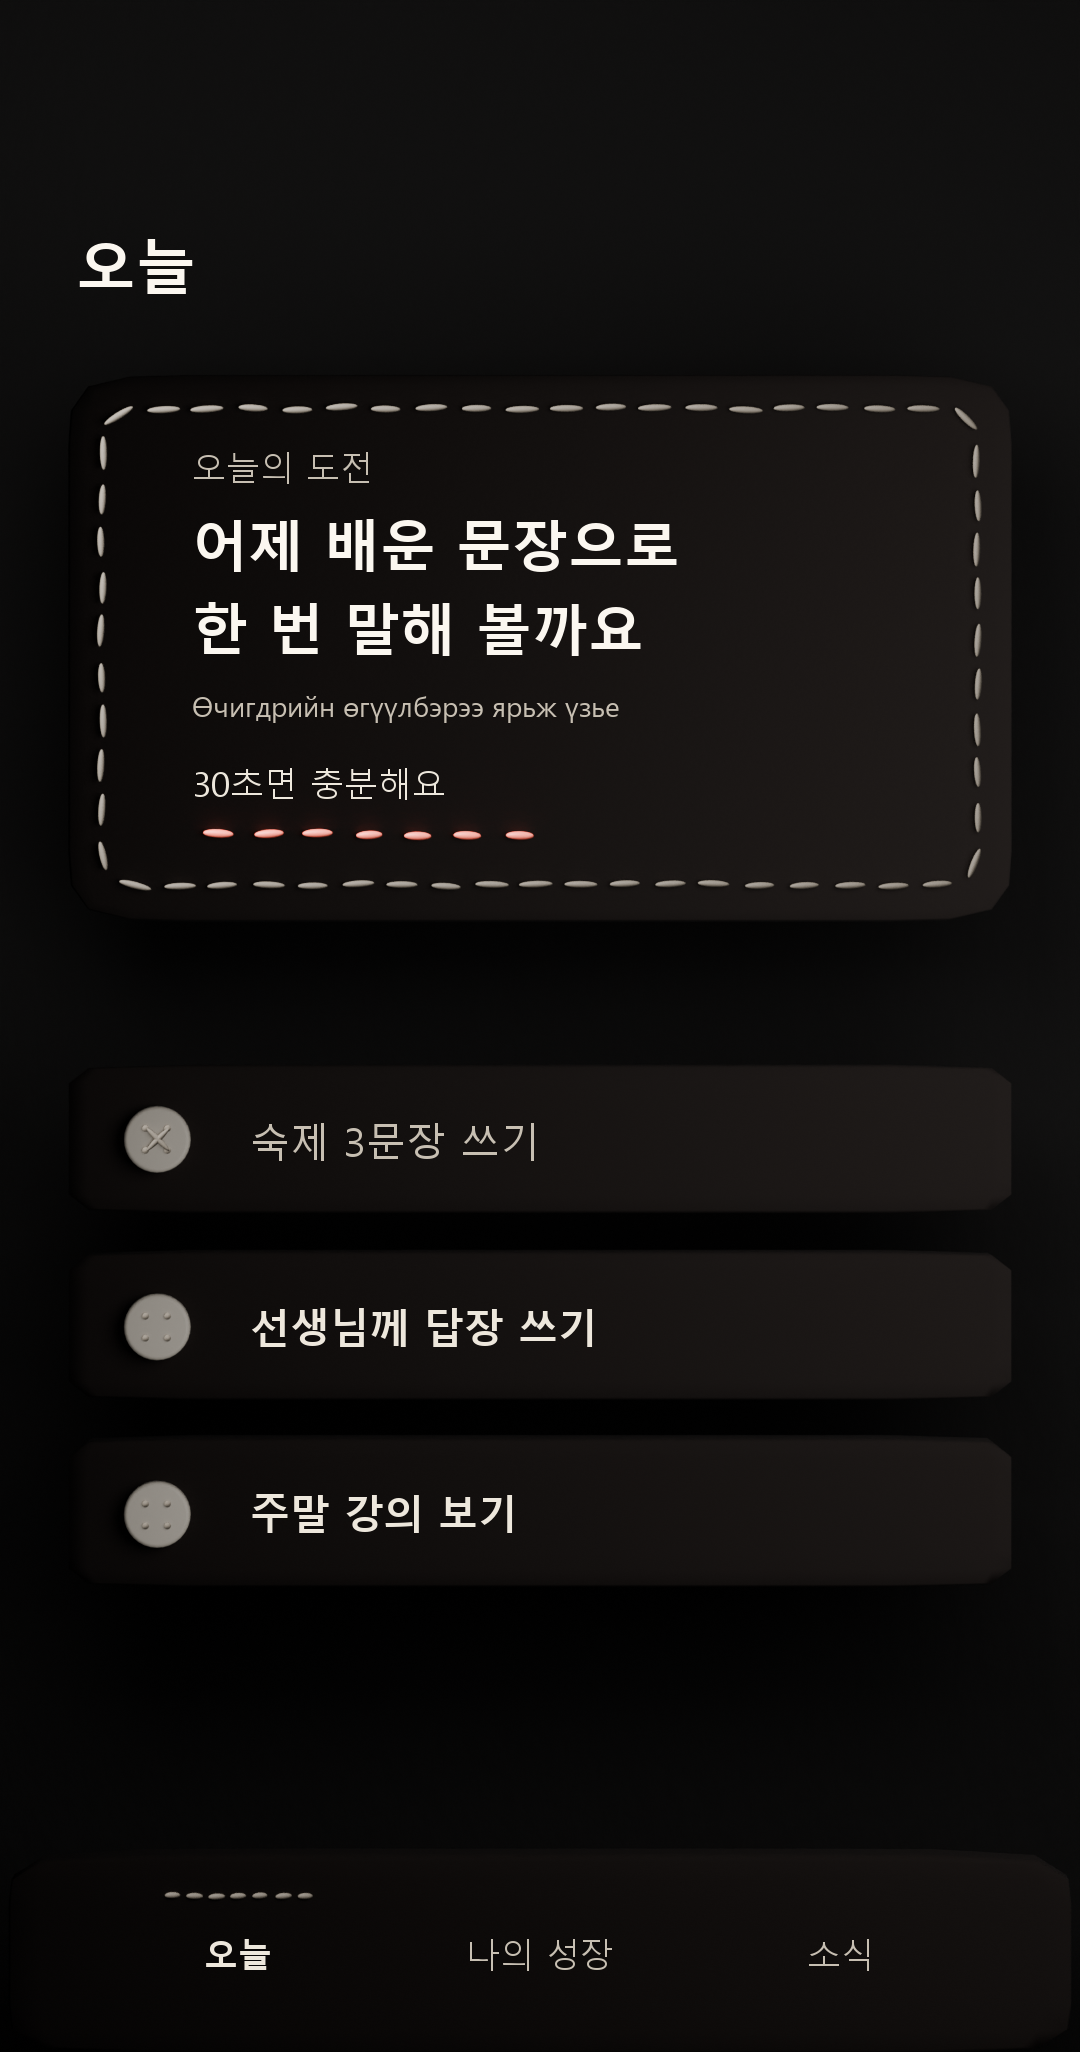
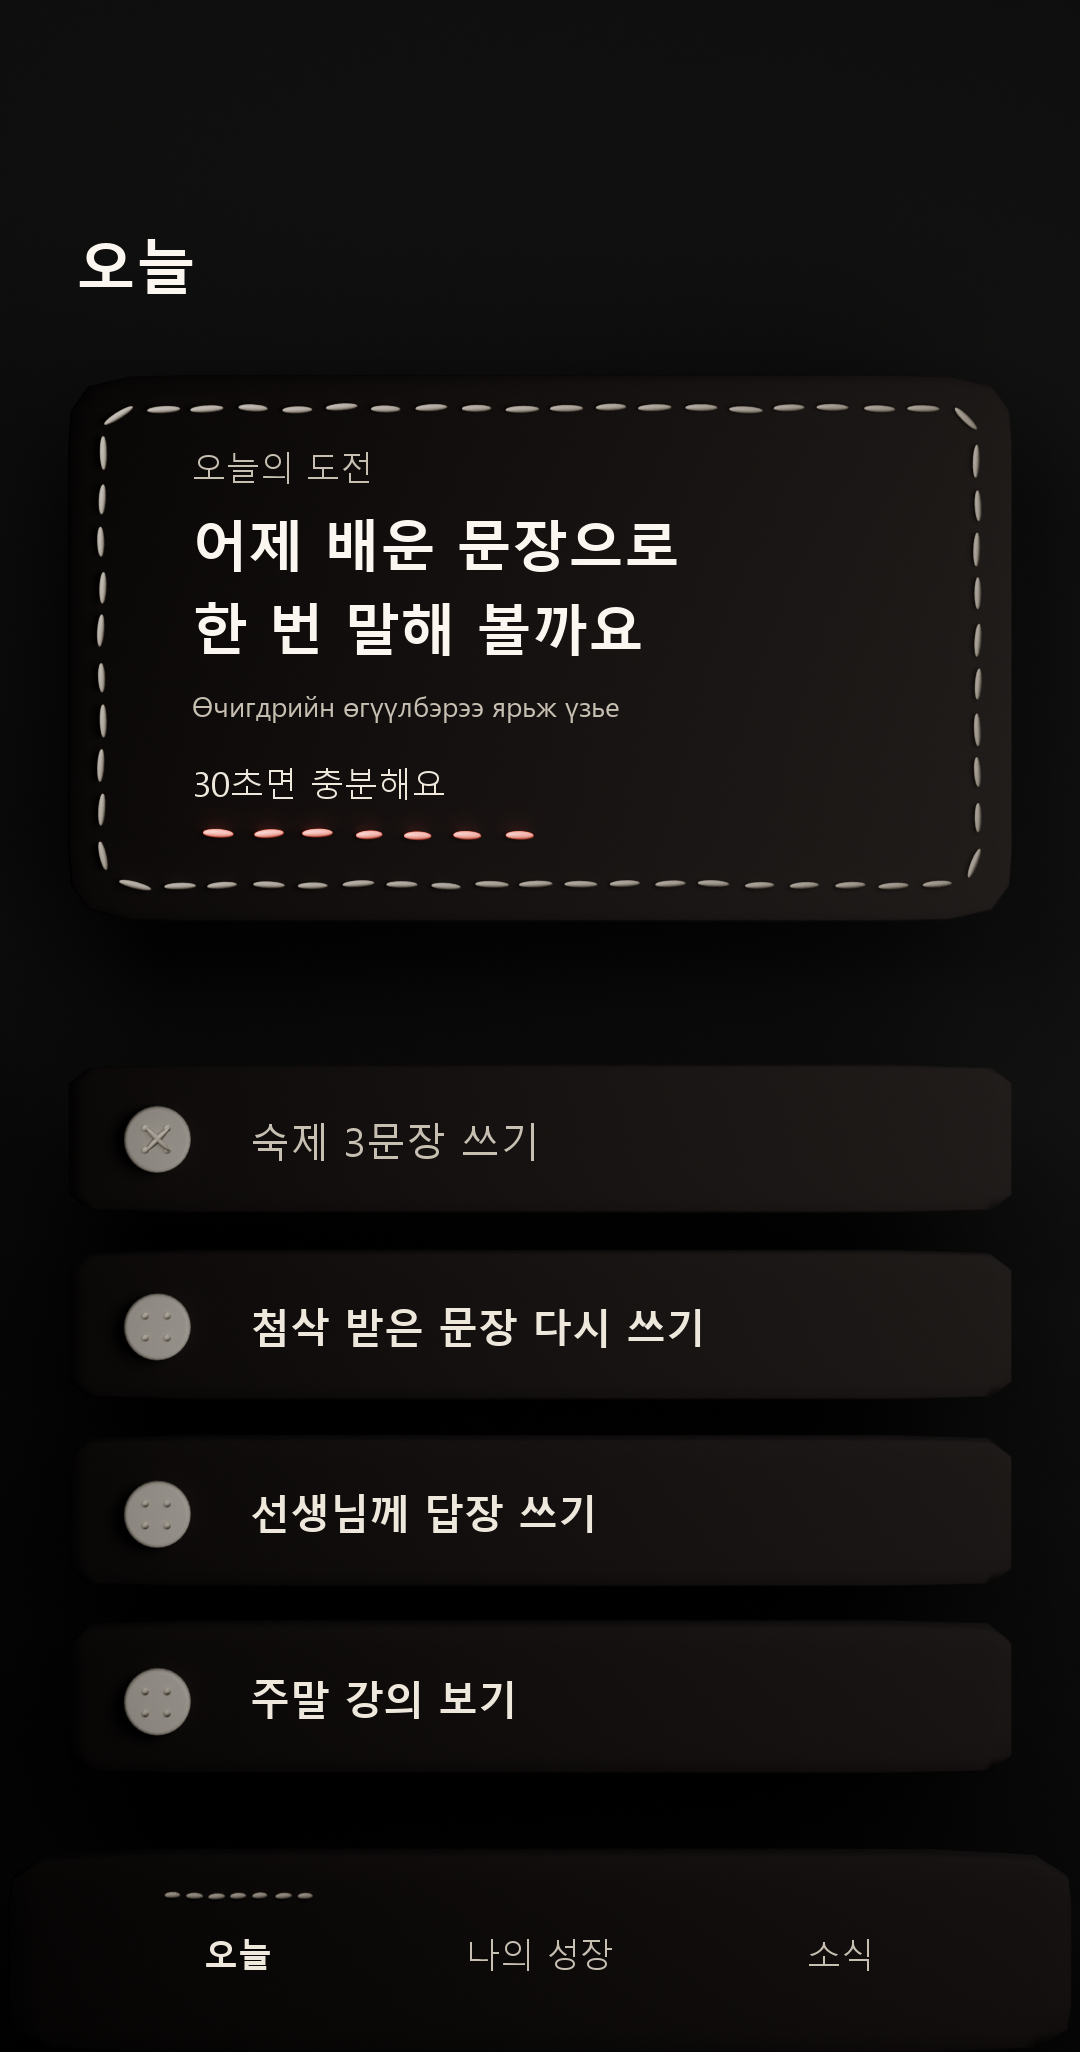
feat: 오늘 탭 넷째 줄 = 다시쓰기(학3) — 두 탭이 서로를 부른다 (유호 08-23)
유호 지시: 「오늘 탭에 네 번째 줄 넣어줘.」

1판은 줄이 셋이라 할일2 아래 **259px** 이 비었고, 「4계 ③ 어둠을 두려워하지 않는다」로 두고
판정을 기다렸다. 소식 탭(줄 넷)이 나오자 나란히 놓였고 그 여백이 «어둠»이 아니라
**«빈 칸»**으로 읽혔다 — 유호님 지시로 닫는다.

## 무엇을 넣을지는 근거로 골랐다 — 넷째 = 다시쓰기(학3)
1. 수집층 1-A 열 중 **아직 어느 화면에도 자리를 못 얻은 것 중 가장 값지다**
   (학2 첨삭 = 소식 탭 · 학4·7·8 = 도전 카드 · 학5 = 코치 카드 · 학10-A = 「우선순위 최하」).
2. 🔑 **두 탭이 이어진다** — 소식 탭에 첨삭이 «도착»하면 오늘 탭에 다시쓰기가 «할 일»로 뜬다.
   탭이 서로를 부르면 셋이 한 앱으로 읽힌다. **탭 셋을 다 짓고 나서야 보이는 자리였다** —
   화면을 하나씩 볼 때는 안 보이고 나란히 놓아야 보이는 것이 있다.
3. 3점 종단(원문 → 교정 → 자기 교정문)의 **마지막 점**이다. 이 줄이 없으면 「교정이 먹혔는지」를
   재는 데이터가 안 들어온다(전수분석 학3 「교정이 먹혔는지 재는 반쪽」).

## 값은 새로 안 잡았다
세로 예산은 소식 탭이 이미 실측해 뒀다 — 넷째 z −1.38 · 아래끝 −1.57 · 탭바 윗면 −1.80
→ 남는 숨 0.23(줄 사이 빈틈 0.10 의 2.3배). **두 탭이 같은 격자를 쓴다.**

대비 재측정 **13블록 전부 AAA**(10.12 ~ 17.92 : 1) · 상단 착시 재확인(최대 17/255 · 밝은 화소 0).
`탭셋_나란히.png` 갱신 · 오늘공방 인계 §1-B 신설 · 트랙 §2-A 현행화.

Session-Id: local_7f333ae2-2b96-4c2d-8162-34cea81fcb8e

diff --git a/tools/요소굽기.py b/tools/요소굽기.py
@@ -3374,7 +3374,8 @@ def 오늘판():
     성장판이 «어디까지 왔나»를 그린다면 이 화면은 «오늘 무엇을 하나»를 그린다.
       ① 오늘의 도전 — 하루의 «한 가지». 학7(목소리 제출)이 기본이고 학8(출석)·학4(퀴즈)가 확정대로
          여기로 흡수됐다. 화면의 **유일한 코랄**은 이 카드 아래 「시작 실」 한 도막이다.
-      ② 할 일 셋 — 숙제(학1) · 대화(학6) · 강의(학9). 완료는 **꿰맨 단추의 켬/끔**으로 읽는다.
+      ② 할 일 넷 — 숙제(학1) · 다시쓰기(학3) · 대화(학6) · 강의(학9).
+         완료는 **꿰맨 단추의 켬/끔**으로 읽는다.
       ③ 탭바 — 지금 탭이 «오늘»(왼쪽)이라 실땀 밑줄이 첫 칸에 선다.
 
     🔑 **새 부품이 0개다.** 그릇(카드)·꿰맴(단추토글)·밑줄(실땀)은 앞 두 화면이 이미 세운 문법이라
@@ -3456,11 +3457,23 @@ def 오늘판():
               도전z - 0.48 + 손.uniform(-0.004, 0.004),
               0.036 * 손.uniform(0.92, 1.08), 0.0105, 지금실, 회전y=손.uniform(-4, 4))
 
-    # ── ② 할 일 셋 — 숙제·대화·강의. 첫 줄만 꿰매져 있다(했다) ──────────────────────────
+    # ── ② 할 일 넷 — 숙제·다시쓰기·대화·강의. 첫 줄만 꿰매져 있다(했다) ────────────────
     #   ⚠단추 깊이는 «칸 앞면 − 0.015» 다 — 성장판이 천 앞면 0.99 에 0.975 를 놓은 그 비례다.
     #     칸 앞면 = 0.5 − 0.08 = 0.42 이므로 0.405. 깊이가 어긋나면 같은 x 가 화면에서 밀린다.
+    #
+    #   🔴**유호 지시 08-23 「오늘 탭에 네 번째 줄 넣어줘」.** 1판은 셋이라 할일2 아래 259px 이
+    #     비었고, 소식 탭(줄 넷)을 나란히 놓자 그 여백이 «어둠»이 아니라 «빈 칸»으로 읽혔다.
+    #     ⇒ 넷째 = **다시쓰기(학3)**. 고른 까닭 셋:
+    #       ①수집층 1-A 에서 아직 어느 화면에도 자리를 못 얻은 것 중 가장 값지다
+    #         (학2 첨삭은 소식 탭 · 학4·7·8 은 도전 카드 · 학5 는 코치 카드 · 학10-A 는 우선순위 최하).
+    #       ②**두 탭이 이어진다** — 소식 탭에 첨삭이 «도착»하면 오늘 탭에 다시쓰기가 «할 일»로 뜬다.
+    #         탭이 서로를 부르면 셋이 한 앱으로 읽힌다.
+    #       ③3점 종단(원문 → 교정 → 자기 교정문)의 마지막 점이라, 이 줄이 없으면 「교정이 먹혔는지」를
+    #         재는 데이터가 안 들어온다(전수분석 학3 「교정이 먹혔는지 재는 반쪽」).
+    #   ⚠세로 예산은 소식 탭이 이미 실측해 뒀다: 넷째 z −1.38 · 아래끝 −1.57 · 탭바 윗면 −1.80
+    #     → 남는 숨 0.23(줄 사이 빈틈 0.10 의 2.3배). 두 탭이 같은 격자를 쓴다.
     할일깊이 = 0.405
-    for 번, hz in enumerate((0.06, -0.42, -0.90)):
+    for 번, hz in enumerate((0.06, -0.42, -0.90, -1.38)):
         줄 = 베개몸((1.21, 0.08, 0.19), 위치=(0, 0.5, hz), 크리스=0.66, 레벨=3)
         줄.data.materials.append(직물결(매끈재질('할일칸', 색['Ink'], 거칠기=0.95), 규모=160.0, 세기=0.045))
         키제외.append(줄)

diff --git a/docs/캐릭터/오늘공방_0822/오늘덧씌움.py b/docs/캐릭터/오늘공방_0822/오늘덧씌움.py
@@ -80,7 +80,10 @@ if 키릴줄:
 # ── ② 할 일 셋 — 단추가 «했나»를 말하므로 글은 이름만 든다 ─────────────────────────
 #   ⚠상태를 글로 또 쓰지 않는다(「했어요」 금지) — 꿰맨 단추가 이미 그 말을 하고 있고,
 #     같은 신호를 두 번 주면 화면이 시끄러워진다(4계 ②).
-할일 = (("숙제 3문장 쓰기", True), ("선생님께 답장 쓰기", False), ("주말 강의 보기", False))
+# 🔴유호 지시 08-23 「네 번째 줄 넣어줘」 — 넷째는 **다시쓰기(학3)**다.
+#   소식 탭에 첨삭이 «도착»하면 여기에 다시쓰기가 «할 일»로 뜬다: 두 탭이 서로를 부른다.
+할일 = (("숙제 3문장 쓰기", True), ("첨삭 받은 문장 다시 쓰기", False),
+        ("선생님께 답장 쓰기", False), ("주말 강의 보기", False))
 for 번, (이름표, 했나) in enumerate(할일):
     칸 = 칸들["할일%d" % 번]
     폭 = 칸["우"] - 칸["좌"]
@@ -123,7 +126,7 @@ def 대비(a, b):
 바탕 = Image.open(바탕길).convert("RGB")
 bl = 바탕.load()
 색표 = {"라벨": 보조2, "시작": 보조, "도전몽": 보조2, "제목몽": 보조2,
-        "할일0": 보조2, "할일1": 보조, "할일2": 보조,
+        "할일0": 보조2, "할일1": 보조, "할일2": 보조, "할일3": 보조,
         "탭0": 보조, "탭1": 보조2, "탭2": 보조2}
 색표.update({"탭%d몽" % i: 보조2 for i in range(3)})
 print()

diff --git a/docs/캐릭터/오늘공방_0822/인계.md b/docs/캐릭터/오늘공방_0822/인계.md
@@ -1,4 +1,4 @@
-# 오늘 공방 인계 — 「오늘」 탭 v1 시안 (2026-08-22 · ⏳유호님 판정 대기)
+# 오늘 공방 인계 — 「오늘」 탭 v1 시안 (2026-08-22 · **08-23 넷째 줄 추가** · ⏳유호님 판정 대기)
 
 > 트랙 §2-A 「오늘 탭 ⛔ 미착수 — 다음 차례」의 집행이다.
 > 렌더 = `오늘판_v1.png`(본문 얹은 판) · `오늘판_v1_그릇만.png`(굽기 원판) · 칸 좌표 = `*.png.칸.json`
@@ -13,7 +13,7 @@
 |---|---|---|
 | 상단 | **오늘의 도전 카드** — 하루의 «한 가지» | 학7(목소리 제출) · 학8(출석)·학4(퀴즈)가 확정대로 여기 흡수 |
 | 카드 안 | **코랄 시작 실** 한 도막 — 화면의 유일한 신호 | 성장판의 「지금 칸」 하나와 같은 예산 |
-| 중단 | **할 일 셋** — 숙제(학1)·대화(학6)·강의(학9) | 수집층 1-A 의 나머지 입구 |
+| 중단 | **할 일 넷** — 숙제(학1)·**다시쓰기(학3)**·대화(학6)·강의(학9) | 수집층 1-A 의 나머지 입구 |
 | 각 줄 왼쪽 | **꿰맨 단추의 켬/끔** — 했으면 X, 아직이면 빈 구멍 | 단추토글(유호 픽 08-19) · 성장판 게이지와 같은 문법 |
 | 바닥 | **탭바** — 지금 탭이 «오늘»이라 밑줄이 첫 칸 | 전수분석 §1 「탭 3개」 |
 
@@ -24,13 +24,31 @@
 **뺀 것**: **개인 코치 카드(N15)** — 성장판이 「오늘의 성장 카드」로 이미 쓴다. 두 탭에 같은 카드를
 두면 «오늘»이 성장 탭의 요약본으로 읽힌다. **첨삭 도착(학2)** 은 소식 탭 몫이다.
 
+## 1-B. 넷째 줄 — 다시쓰기(학3) · 유호 지시 08-23
+
+1판은 줄이 셋이라 할일2 아래 **259px** 이 비었고, 「4계 ③ 어둠을 두려워하지 않는다」로 두고
+유호님 판정을 기다렸다. 소식 탭(줄 넷)이 나오자 나란히 놓였고, 그 여백이 «어둠»이 아니라
+**«빈 칸»**으로 읽혔다. 유호 지시 「오늘 탭에 네 번째 줄 넣어줘」로 닫았다.
+
+**무엇을 넣을지는 근거로 골랐다 — 넷째 = 다시쓰기(학3).**
+1. 수집층 1-A 열 중 **아직 어느 화면에도 자리를 못 얻은 것 중 가장 값지다**
+   (학2 첨삭 = 소식 탭 · 학4·7·8 = 도전 카드 · 학5 = 코치 카드 · 학10-A = 「우선순위 최하」).
+2. 🔑 **두 탭이 이어진다** — 소식 탭에 첨삭이 «도착»하면 오늘 탭에 다시쓰기가 «할 일»로 뜬다.
+   탭이 서로를 부르면 셋이 한 앱으로 읽힌다(탭 셋을 지은 뒤에야 보이는 자리였다).
+3. 3점 종단(원문 → 교정 → 자기 교정문)의 **마지막 점**이다. 이 줄이 없으면 「교정이 먹혔는지」를
+   재는 데이터가 안 들어온다(전수분석 학3 「교정이 먹혔는지 재는 반쪽」).
+
+세로 예산은 소식 탭이 이미 실측해 뒀다 — 넷째 z `−1.38` · 아래끝 `−1.57` · 탭바 윗면 `−1.80`
+→ 남는 숨 `0.23`(줄 사이 빈틈 0.10 의 2.3배). **두 탭이 같은 격자를 쓴다.**
+대비 재측정: **13블록 전부 AAA**(10.12 ~ 17.92 : 1).
+
 ## 2. 채택값
 
 | 자리 | 값 |
 |---|---|
 | 도전 카드 | 반크기 `1.21 × 0.09 × 0.70` · z `1.32` · 크리스 0.80 · 레벨 4 · 시접 0.09 |
 | 코랄 시작 실 | x `−0.89 … +0.01`(**왼쪽 정렬**) · z `도전z − 0.48` · 깊이 0.40 · 7땀 · 길이 0.036 · 굵기 0.0105 |
-| 할 일 줄 | 반크기 `1.21 × 0.08 × 0.19` · z `0.06 / −0.42 / −0.90` · 크리스 0.66 |
+| 할 일 줄 | 반크기 `1.21 × 0.08 × 0.19` · z `0.06 / −0.42 / −0.90 / **−1.38**` · 크리스 0.66 |
 | 줄 단추 | r `0.085`(게이지와 같다) · 깊이 `0.405` = 칸 앞면(0.42) − 0.015 |
 | 탭바 | 성장판과 **완전히 같다**(`1.38 × 0.07 × 0.26` · z `−2.06`) · 밑줄만 첫 칸(x −0.78)으로 |
 | 배경천·조명·카메라 | 조합판 v1 그대로 — 세 화면이 한 세계로 읽히려면 여기가 안 갈려야 한다 |
@@ -62,5 +80,8 @@
   도전 문장에만 붙였다. 규칙 자체는 실학생 첫 달에 잰다(유호 08-22).
 - **상태(누름·완료 애니메이션)는 안 그렸다** — HTML/Expo 층 몫이다.
 - **본문 층이 1080px 절대값에 묶여 있다** — 앞 두 화면과 같은 기술 부채다(트랙 §6).
-- **하단 여백이 넓다**(할일2 아래 259px). 4계 ③ 「어둠을 두려워하지 않는다」로 두었으나,
-  유호님이 «비어 보인다» 하시면 네 번째 줄이나 몽글 한 점이 들어갈 자리다.
+- ~~하단 여백이 넓다(할일2 아래 259px)~~ → **08-23 닫힘.** 유호 지시로 넷째 줄(다시쓰기·학3)이
+  들어가 바닥까지 찼다. 위 §1-B 참조.
+- ⚠**출력은 절대 경로로 준다** — 블렌더는 상대 경로를 «드라이브 루트»로 해석해 렌더가
+  `C:\docs\…` 로 떨어지는데, **칸 JSON 은 제자리에 생겨서** 「JSON 은 있는데 PNG 가 없다」로
+  나타난다(소식공방 08-23 실측 · 그 인계 §3-1).

diff --git a/docs/_ops/트랙.md b/docs/_ops/트랙.md
@@ -144,7 +144,7 @@ CSS 목업은 임시 비계다. 화면·부품을 블렌더로 굽는다.
 |---|---|
 | 퀴즈(조합판) | ✅ v1 채택·이식 (4a3c70a8 · 보조줄 수리 3f830220) |
 | 나의 성장(성장판) | ✅ v1 채택·이식 (ffc2faca) |
-| **오늘 탭** | 🟡 **v1 시안 나왔다 — ⏳유호님 판정 대기**(08-22 · 새 부품 0 · 대비 12블록 전부 AAA) |
+| **오늘 탭** | 🟡 **v1 시안 — ⏳유호님 판정 대기**(08-22 · 새 부품 0 · **08-23 넷째 줄 「다시쓰기(학3)」 추가**로 하단 여백 닫힘 · 대비 13블록 전부 AAA) |
 | **소식 탭** | 🟡 **v1 시안 나왔다 — ⏳유호님 판정 대기**(08-23 · 새 부품 0 · 대비 18블록 전부 AAA) |
 
 공방 인계 = `docs/캐릭터/조합공방_0821/인계.md` · `docs/캐릭터/성장공방_0821/인계.md` ·
